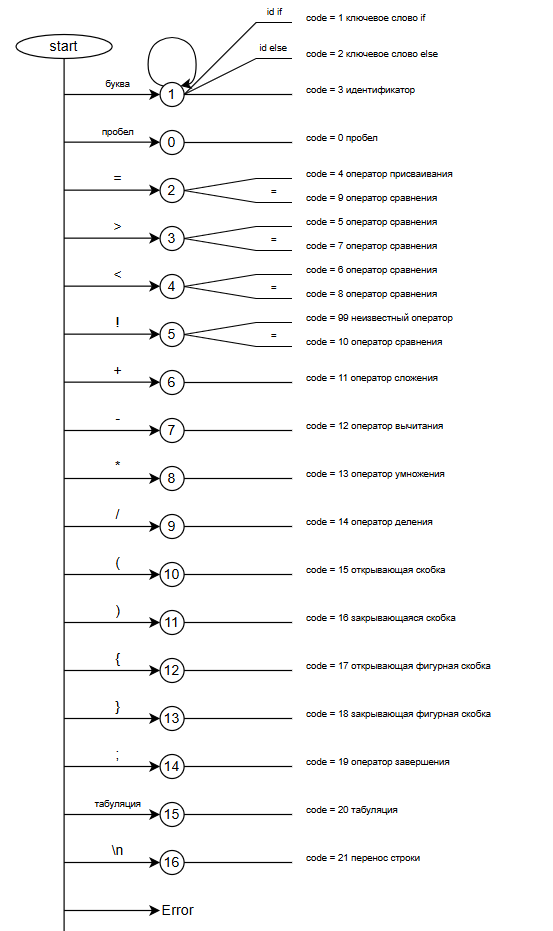
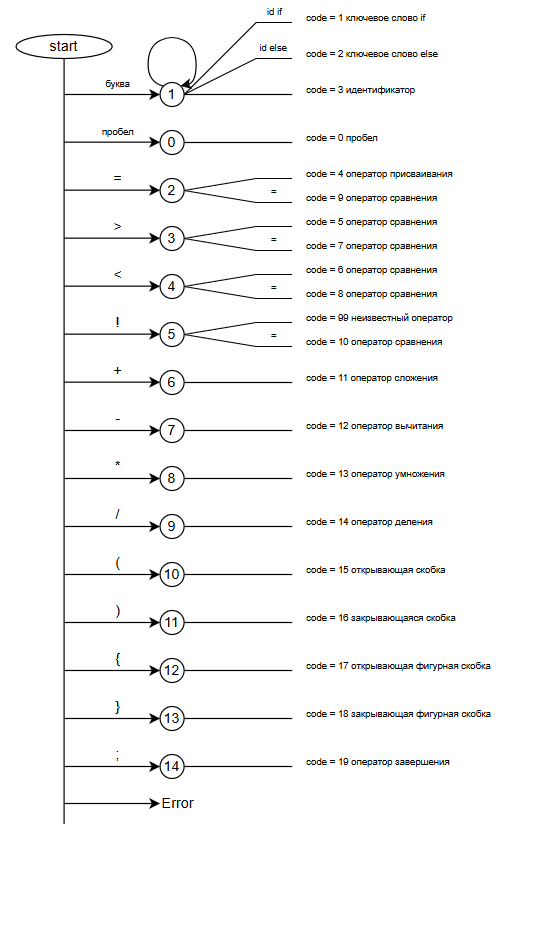
Исправлена диаграмма состояний

diff --git a/scanner.py b/scanner.py
@@ -233,11 +233,10 @@ if __name__ == "__main__":
 };"""
 
     print("Тестирование сканера с фильтрацией")
-    print("=" * 50)
 
     tokens, errors, filtered = scanner.scan(test_code)
 
-    print("\n=== ТОКЕНЫ ===")
+    print("\nТокены")
     for token in tokens:
         print(
             f"{token.code:3d} | {token.type_desc:25} | '{token.value}' | строка {token.line}, {token.start_pos}-{token.end_pos}")
@@ -246,12 +245,3 @@ if __name__ == "__main__":
         print("\nОшибки")
         for error in errors:
             print(f"Строка {error['line']}, поз.{error['pos']}: {error['message']}")
-
-if __name__ == "__main__":
-    scanner = Scanner()
-    test = "if (a > b) {\n    max = a;\n}"
-    tokens, errors = scanner.scan(test)
-    for t in tokens:
-        print(f"{t.code}: {t.value} - {t.type_desc} [строка {t.line}, {t.start_pos}-{t.end_pos}]")
-    for e in errors:
-        print(f"Ошибка: {e['message']} в строке {e['line']}, позиция {e['pos']}")
